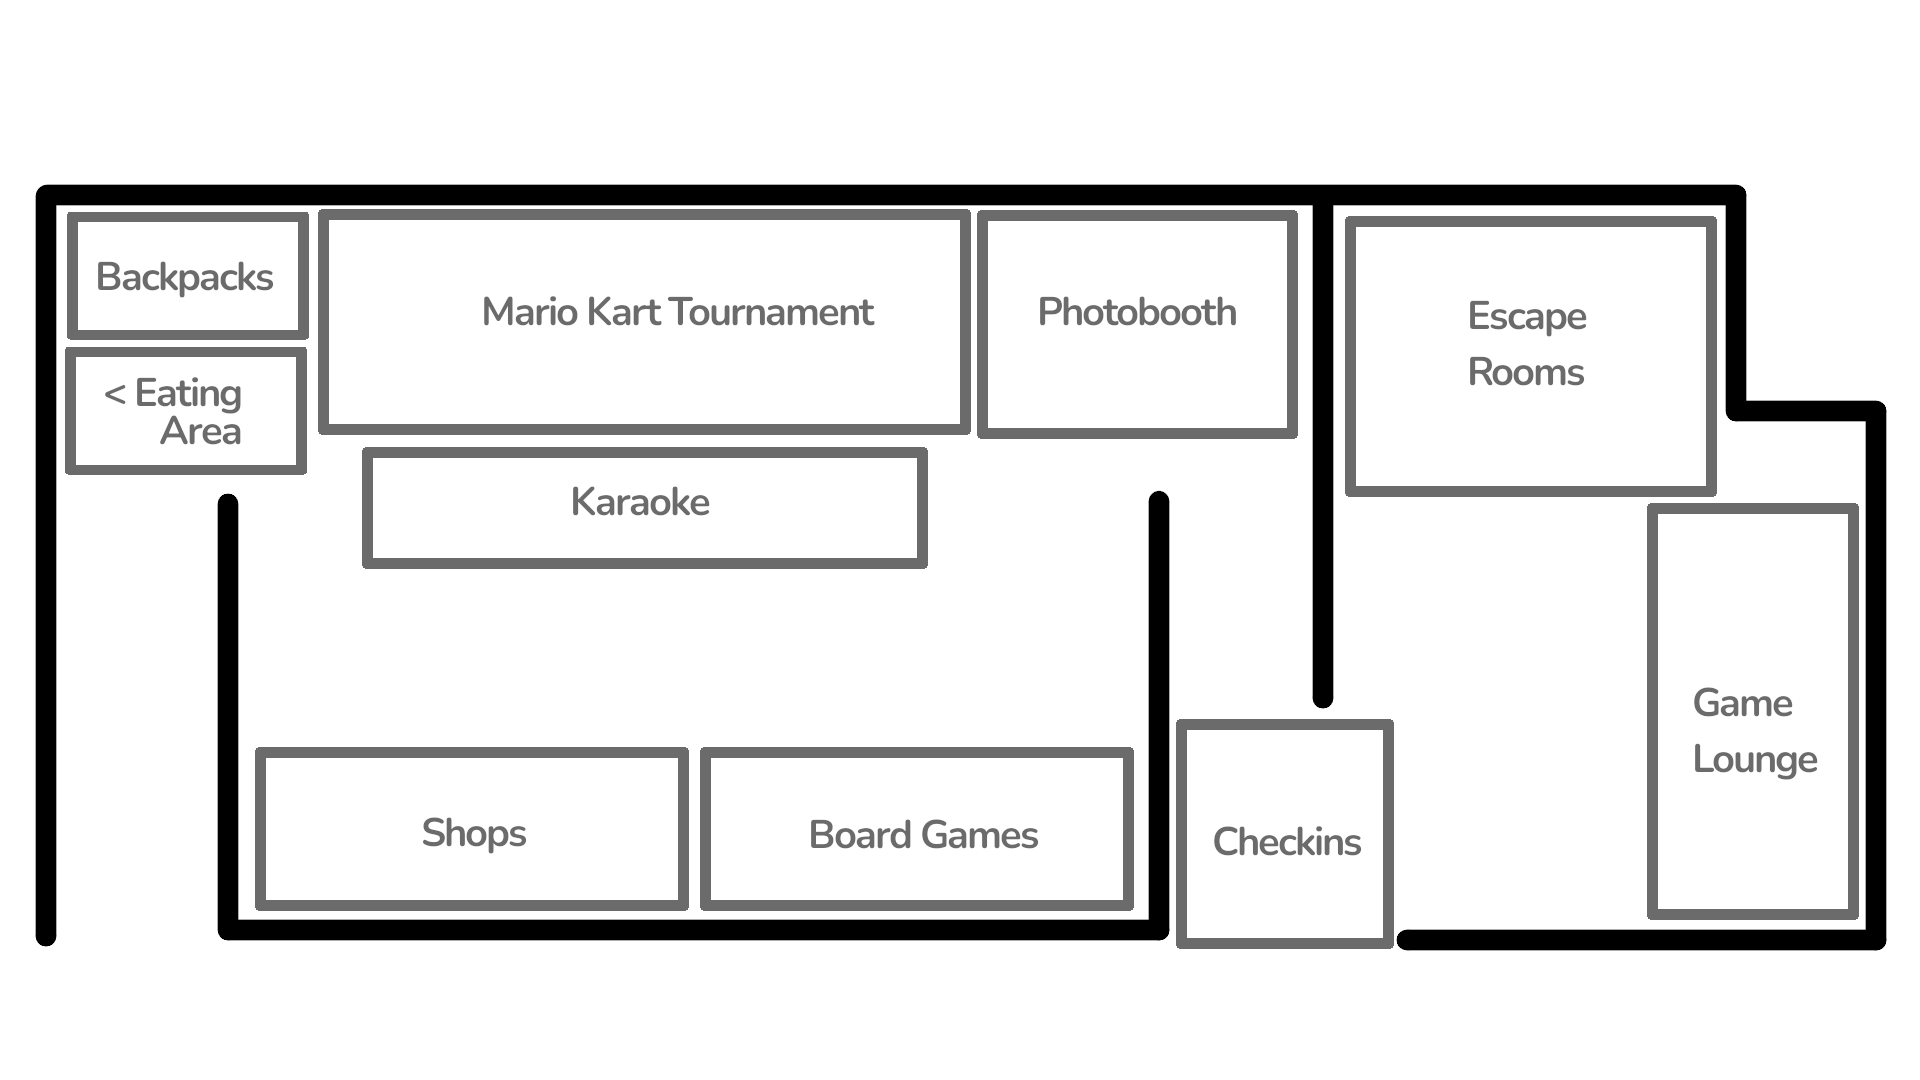
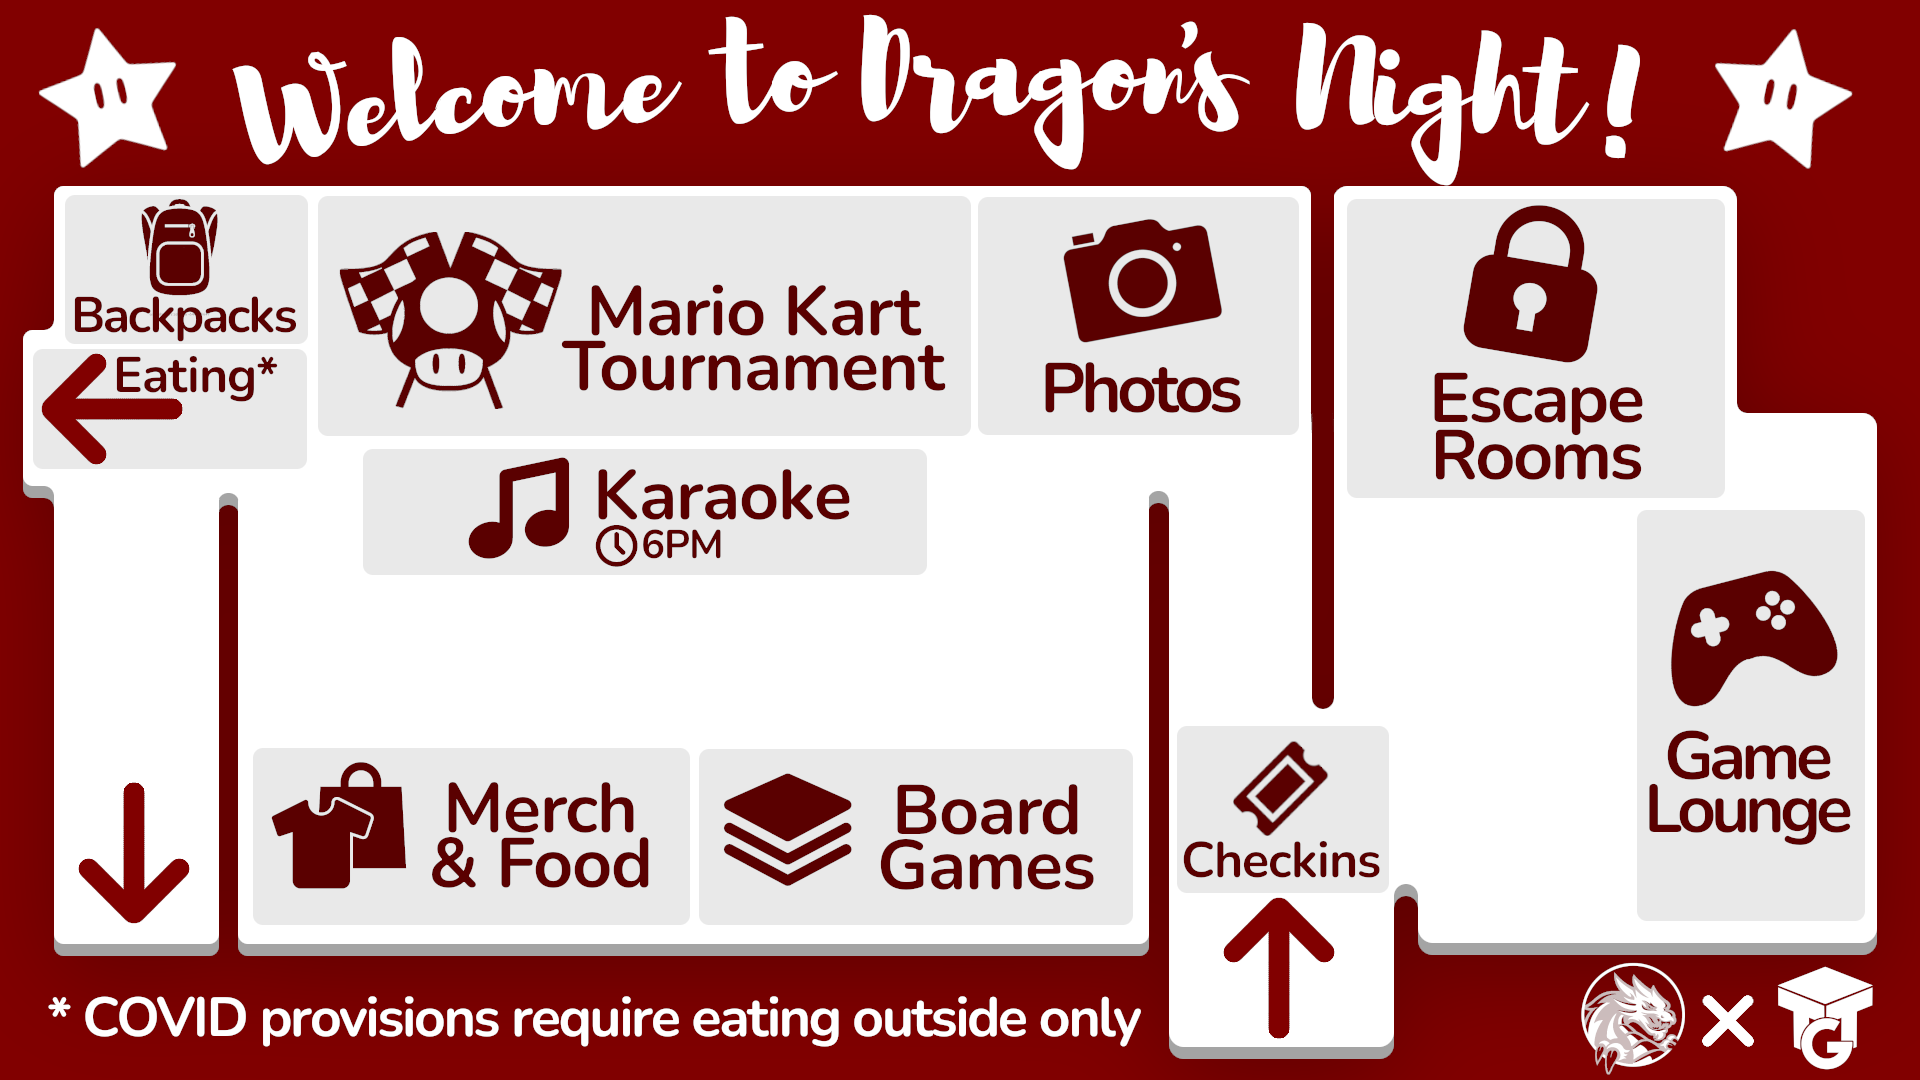
Update map guide appearance and add popups

diff --git a/site/dragons-night.html b/site/dragons-night.html
@@ -1,6 +1,182 @@
-<title>mchslink</title> 
-<body>
-	<link rel="shortcut icon" type="image/png" href="assets/images/favicon.png">
-	<img src="assets/images/layout-blank.png" width="1000px">
-	<p style="font-family: sans-serif; font-size: 20px;"> Event layout </p>
-</body>
+<!DOCTYPE html>
+<head>
+	<link rel="stylesheet" href="assets/styles/main.css">
+	<noscript>You need to enable JavaScript to view the full site.</noscript>
+</head>
+
+<html>
+	<body>
+		<!-- Image with image map -->
+		<div class="image" style="text-align: center; vertical-align: middle">
+			<img src="assets/images/map.png" alt="Map of event" usemap="#imagemap">
+			<map name="imagemap">
+				<area id="backpacks" shape="rect" coords="75, 210, 300, 330">
+				<area id="eatingArea" shape="rect" coords="75, 350, 300, 470">
+				<area id="tournament" shape="rect" coords="320, 215, 960, 430">
+				<area id="karaoke" shape="rect" coords="370, 450, 920, 560">
+				<area id="photobooth" shape="rect" coords="980, 210, 1290, 430">
+				<area id="shops" shape="rect" coords="250, 750, 680, 900">
+				<area id="boardGames" shape="rect" coords="700, 750, 1130, 900">
+				<area id="escapeRooms" shape="rect" coords="1350, 220, 1710, 490">
+				<area id="gameLounge" shape="rect" coords="1650, 510, 1850, 910">
+				<area id="checkin" shape="rect" coords="1180, 720, 1390, 950">
+
+			</map>
+		</div>
+
+		<!-- Image modals -->
+		<div id="introModal" class="modal">
+			<div class="modal-content" style="text-align: center; vertical-align: middle">
+				<img class="resizeimage" src="assets/images/intro.png">
+			</div>
+		</div>
+		<div id="backpacksModal" class="modal">
+			<div class="modal-content" style="text-align: center; vertical-align: middle">
+				<img class="resizeimage" src="assets/images/backpacks.png">
+			</div>
+		</div>
+		<div id="eatingAreaModal" class="modal">
+			<div class="modal-content" style="text-align: center; vertical-align: middle">
+				<img class="resizeimage" src="assets/images/eatingArea.png">
+			</div>
+		</div>
+		<div id="tournamentModal" class="modal">
+			<div class="modal-content" style="text-align: center; vertical-align: middle">
+				<img class="resizeimage" src="assets/images/tournament.png">
+			</div>
+		</div>
+		<div id="karaokeModal" class="modal">
+			<div class="modal-content" style="text-align: center; vertical-align: middle">
+				<img class="resizeimage" src="assets/images/karaoke.png">
+			</div>
+		</div>
+		<div id="photoboothModal" class="modal">
+			<div class="modal-content" style="text-align: center; vertical-align: middle">
+				<img class="resizeimage" src="assets/images/photobooth.png">
+			</div>
+		</div>
+		<div id="shopsModal" class="modal">
+			<div class="modal-content" style="text-align: center; vertical-align: middle">
+				<img class="resizeimage" src="assets/images/shops.png">
+			</div>
+		</div>
+		<div id="boardGamesModal" class="modal">
+			<div class="modal-content" style="text-align: center; vertical-align: middle">
+				<img class="resizeimage" src="assets/images/boardGames.png">
+			</div>
+		</div>
+		<div id="escapeRoomsModal" class="modal">
+			<div class="modal-content" style="text-align: center; vertical-align: middle">
+				<img class="resizeimage" src="assets/images/escapeRooms.png">
+			</div>
+		</div>
+		<div id="gameLoungeModal" class="modal">
+			<div class="modal-content" style="text-align: center; vertical-align: middle">
+				<img class="resizeimage" src="assets/images/gameLounge.png">
+			</div>
+		</div>
+		<div id="checkinModal" class="modal">
+			<div class="modal-content" style="text-align: center; vertical-align: middle">
+				<img class="resizeimage" src="assets/images/checkin.png">
+			</div>
+		</div>
+
+	</body>
+</html>
+
+<script>
+	// Find the modals
+	var backpacksModal = document.getElementById("backpacksModal");
+	var eatingAreaModal = document.getElementById("eatingAreaModal");
+	var tournamentModal = document.getElementById("tournamentModal");
+	var karaokeModal = document.getElementById("karaokeModal");
+	var photoboothModal = document.getElementById("photoboothModal");
+	var shopsModal = document.getElementById("shopsModal");
+	var boardGamesModal = document.getElementById("boardGamesModal");
+	var escapeRoomsModal = document.getElementById("escapeRoomsModal");
+	var gameLoungeModal = document.getElementById("gameLoungeModal");
+	var checkinModal = document.getElementById("checkinModal");
+
+    // Display intro modal to begin with
+    introModal.style.display = "block";
+
+	// When the user clicks the corresponding area, open the modal 
+	document.getElementById("backpacks").onclick = function() {
+			backpacksModal.style.display = "block";
+		}
+	document.getElementById("eatingArea").onclick = function() {
+			eatingAreaModal.style.display = "block";
+		}
+	document.getElementById("tournament").onclick = function() {
+			tournamentModal.style.display = "block";
+		}
+	document.getElementById("karaoke").onclick = function() {
+			karaokeModal.style.display = "block";
+		}
+	document.getElementById("photobooth").onclick = function() {
+			photoboothModal.style.display = "block";
+		}
+	document.getElementById("shops").onclick = function() {
+			shopsModal.style.display = "block";
+		}
+	document.getElementById("boardGames").onclick = function() {
+			boardGamesModal.style.display = "block";
+		}
+	document.getElementById("escapeRooms").onclick = function() {
+			escapeRoomsModal.style.display = "block";
+		}
+	document.getElementById("gameLounge").onclick = function() {
+			gameLoungeModal.style.display = "block";
+		}
+	document.getElementById("checkin").onclick = function() {
+			checkinModal.style.display = "block";
+		}
+
+	// When the user clicks anywhere outside of the modal, close it
+	window.onclick = function(event) {
+			if (event.target == introModal) {
+					introModal.style.display = "none";
+				}
+			if (event.target == backpacksModal) {
+					backpacksModal.style.display = "none";
+				}
+			if (event.target == eatingAreaModal) {
+					eatingAreaModal.style.display = "none";
+				}
+			if (event.target == tournamentModal) {
+					tournamentModal.style.display = "none";
+				}
+			if (event.target == karaokeModal) {
+					karaokeModal.style.display = "none";
+				}
+			if (event.target == photoboothModal) {
+					photoboothModal.style.display = "none";
+				}
+			if (event.target == shopsModal) {
+					shopsModal.style.display = "none";
+				}
+			if (event.target == boardGamesModal) {
+					boardGamesModal.style.display = "none";
+				}
+			if (event.target == escapeRoomsModal) {
+					escapeRoomsModal.style.display = "none";
+				}
+			if (event.target == gameLoungeModal) {
+					gameLoungeModal.style.display = "none";
+				}
+			if (event.target == checkinModal) {
+					checkinModal.style.display = "none";
+					}
+
+		    // Go to special page if link modal clicked
+		    if (event.target.closest('.modal') && tournamentModal.style.display == "block") {
+				    window.location.href = "bracket.png";
+				}
+		    if (event.target.closest('.modal') && escapeRoomsModal.style.display == "block") {
+				    window.location.href = "rooms.png";
+				}
+		    if (event.target.closest('.modal') && checkinModal.style.display == "block") {
+				    window.location.href = "checkin.html";
+				}
+		}
+</script>

diff --git a/site/index.html b/site/index.html
@@ -1,6 +1,6 @@
+</body><meta http-equiv="Refresh" content="0; url='dragons-night.html'" />
 <title>mchslink</title> 
 <body>
 	<link rel="shortcut icon" type="image/png" href="assets/favicon.png">
-	<img src="assets/icon.png" height=200px>
+	<img src="assets/images/icon.png" height=200px>
 	<p style="font-family: sans-serif; font-size: 20px;"> Welcome to mchslink, the site and URL shortener for MCHS. </p>
-</body>

diff --git a/site/checkin.html b/site/checkin.html
@@ -1,0 +1,5 @@
+<title>Checkin Form</title> 
+<body>
+	<link rel="shortcut icon" type="image/png" href="assets/favicon.png">
+	<img src="assets/images/icon.png" height=200px>
+	<p style="font-family: sans-serif; font-size: 20px;"> The COVID self-attestation form is not ready yet. Please check back later. Thanks! </p>
